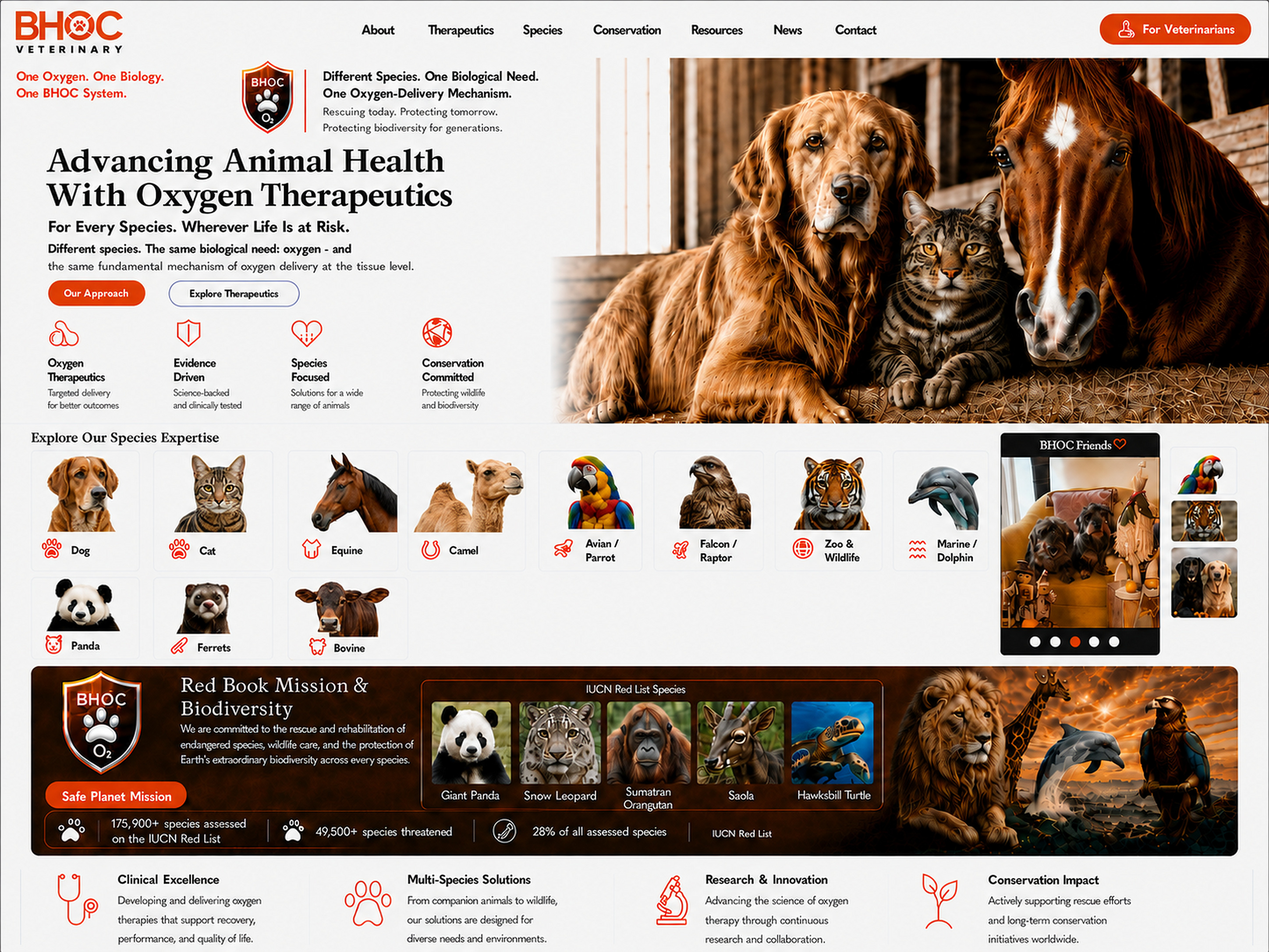
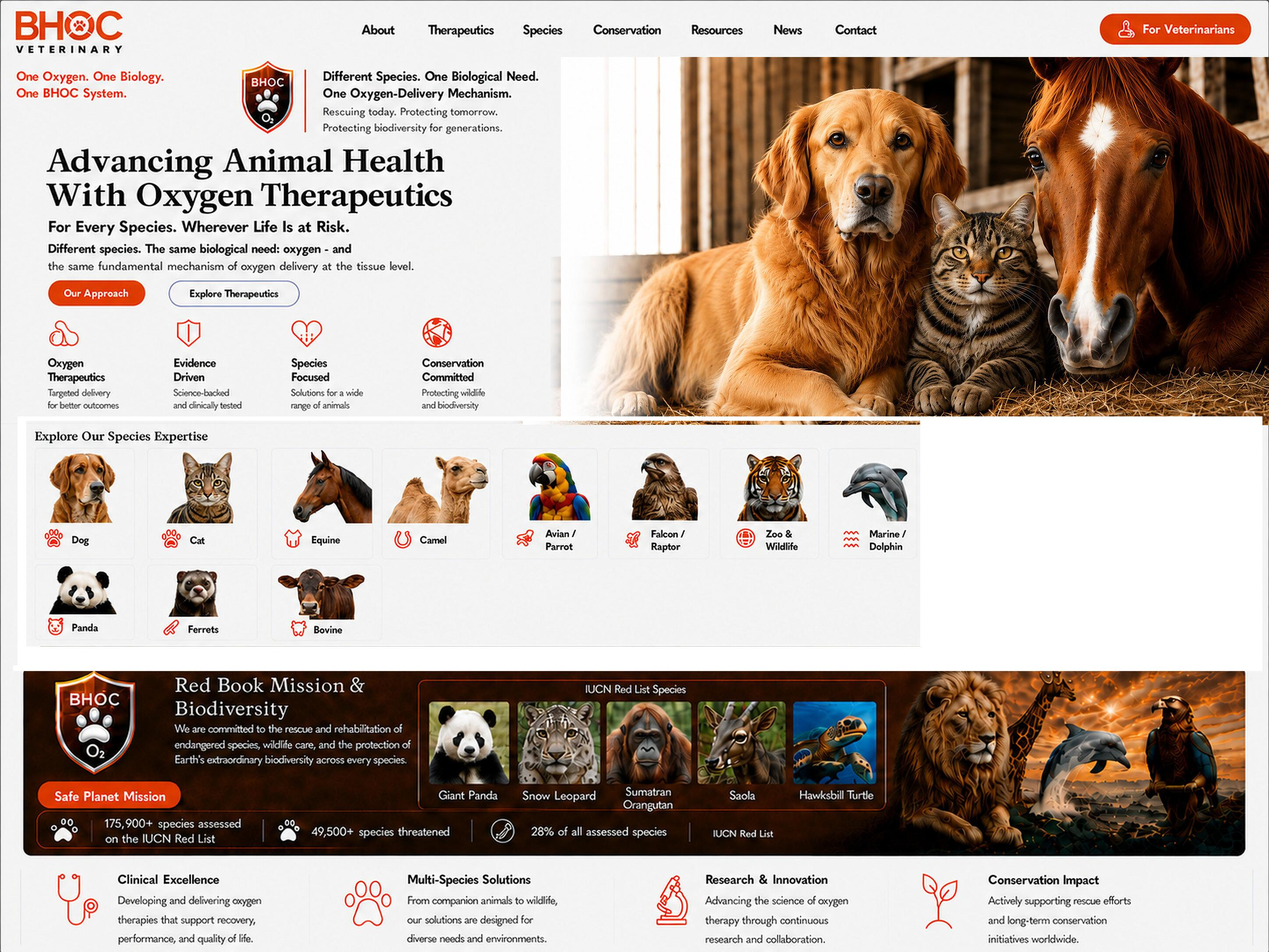
Refine veterinary visual clarity and layout

diff --git a/index.html b/index.html
@@ -5,7 +5,7 @@
   <meta name="viewport" content="width=device-width, initial-scale=1">
   <title>BHOC Veterinary | Oxygen Therapeutics for Animal Health</title>
   <meta name="description" content="BHOC Veterinary develops evidence-driven oxygen therapeutics for animal health across companion, equine, avian, wildlife, marine and exotic species.">
-  <meta name="keywords" content="BHOC Veterinary, veterinary oxygen carrier, veterinary oxygen therapeutics, Oxyglobin evidence, animal health, species conservation">
+  <meta name="keywords" content="BHOC Veterinary, veterinary oxygen carrier, veterinary oxygen therapeutics, Oxyglobin evidence, Oxyglobin, BHOC, HBOC, ALP, Archil Jaliashvili, Georgia, BHOC Friends, dog, wire-haired Dachshund, animal health, species conservation">
   <meta name="author" content="Archil Jaliashvili">
   <meta name="robots" content="index,follow,max-image-preview:large,max-snippet:-1,max-video-preview:-1">
   <link rel="canonical" href="https://archiljali.github.io/BHOC-VET-Therapeutics/">
@@ -15,7 +15,7 @@
   <meta property="og:description" content="Evidence-driven oxygen therapeutics for animal health across species, with a commitment to biodiversity conservation.">
   <meta property="og:url" content="https://archiljali.github.io/BHOC-VET-Therapeutics/">
   <meta property="og:image" content="https://archiljali.github.io/BHOC-VET-Therapeutics/assets/clipboard.jpeg">
-  <meta property="og:image:alt" content="BHOC Veterinary visual showing oxygen therapeutics for dog, cat, equine, camel, panda, ferrets, bovine, wildlife and Red Book IUCN species conservation">
+  <meta property="og:image:alt" content="BHOC Veterinary visual by ALP and Archil Jaliashvili, Georgia, showing Oxyglobin, BHOC, HBOC, BHOC Friends, dog, cat, wire-haired Dachshund, equine, camel, panda, ferrets, bovine, wildlife and Red Book IUCN species conservation">
   <meta name="twitter:card" content="summary_large_image">
   <meta name="twitter:title" content="BHOC Veterinary | Oxygen Therapeutics for Animal Health">
   <meta name="twitter:description" content="Evidence-driven oxygen therapeutics for animal health across species, with a commitment to biodiversity conservation.">
@@ -42,18 +42,18 @@
     .hero-therapeutics { left: 14.7%; top: 28.7%; width: 11%; height: 4.5%; }
     .species { top: 46%; height: 13.5%; }
     .species-1 { left: 2.5%; width: 7.5%; }
-    .species-2 { left: 10%; width: 7.5%; }
-    .species-3 { left: 18%; width: 7.5%; }
-    .species-4 { left: 26%; width: 7.5%; }
-    .species-5 { left: 34%; width: 7.5%; }
-    .species-6 { left: 42%; width: 7.5%; }
-    .species-7 { left: 50%; width: 7.5%; }
-    .species-8 { left: 58%; width: 7.5%; }
-    .species-9 { left: 2.5%; top: 60%; width: 7.5%; }
-    .species-10 { left: 10%; top: 60%; width: 7.5%; }
-    .species-11 { left: 18%; top: 60%; width: 7.5%; }
+    .species-2 { left: 11%; width: 7.2%; }
+    .species-3 { left: 20%; width: 7.2%; }
+    .species-4 { left: 29%; width: 7.2%; }
+    .species-5 { left: 38%; width: 7.2%; }
+    .species-6 { left: 47%; width: 7.2%; }
+    .species-7 { left: 56%; width: 7.2%; }
+    .species-8 { left: 65%; width: 7.2%; }
+    .species-9 { left: 2.5%; top: 60%; width: 7.2%; }
+    .species-10 { left: 11%; top: 60%; width: 7.2%; }
+    .species-11 { left: 20%; top: 60%; width: 7.2%; }
     .conservation-work { left: 3.2%; top: 83.3%; width: 12.5%; height: 4%; }
-    .friends-carousel { position: absolute; left: 78.6%; top: 45.4%; width: 13%; height: 23.4%; z-index: 3; overflow: hidden; border-radius: 1.1%; background: #171717; color: #fff; line-height: 1.2; box-shadow: 0 0 0 1px rgba(255,255,255,.72); }
+    .friends-carousel { position: absolute; left: 80%; top: 46.2%; width: 11.2%; height: 21.7%; z-index: 3; overflow: hidden; border-radius: 1.1%; background: #171717; color: #fff; line-height: 1.2; box-shadow: 0 0 0 1px rgba(255,255,255,.72); }
     .friends-carousel__title { height: 11%; display: flex; align-items: center; justify-content: center; font: 700 clamp(8px, 1.05vw, 17px)/1 Georgia, serif; letter-spacing: .01em; }
     .friends-carousel__title span { color: #f04b16; margin-left: .25em; }
     .friends-carousel__frame { position: relative; height: 76%; background: #222; }
@@ -65,7 +65,7 @@
     .friends-carousel__controls { height: 13%; display: flex; align-items: center; justify-content: center; gap: 5%; }
     .friends-carousel__dot { width: 7%; aspect-ratio: 1; padding: 0; border: 0; border-radius: 50%; background: #fff; opacity: .9; cursor: pointer; }
     .friends-carousel__dot[aria-current="true"] { background: #f04b16; }
-    .redbook-stats { position: absolute; left: 3.5%; top: 85.2%; width: 63%; z-index: 3; display: grid; grid-template-columns: repeat(3, 1fr); gap: 1px; padding: .45% .8%; border: 1px solid rgba(255,255,255,.38); border-radius: 999px; background: rgba(66,18,5,.76); color: #fff; line-height: 1.05; text-align: center; font: 700 clamp(7px, .9vw, 14px)/1.08 Arial, sans-serif; }
+    .redbook-stats { position: absolute; left: 2.8%; top: 85.2%; width: 67%; z-index: 3; display: grid; grid-template-columns: repeat(3, 1fr); gap: 1px; padding: .45% .8%; border: 1px solid rgba(255,255,255,.38); border-radius: 999px; background: rgba(66,18,5,.76); color: #fff; line-height: 1.05; text-align: center; font: 700 clamp(7px, .9vw, 14px)/1.08 Arial, sans-serif; }
     .redbook-stats span { padding: 0 .35em; }
     .redbook-stats small { display: block; margin-top: .2em; font-weight: 400; font-size: .72em; }
     .redbook-stats strong { color: #ffb15b; }
@@ -86,7 +86,7 @@
     "image":"https://archiljali.github.io/BHOC-VET-Therapeutics/assets/clipboard.jpeg",
     "founder":{"@type":"Person","name":"Archil Jaliashvili","url":"https://www.linkedin.com/in/archil-jaliashvili-bhoc/","sameAs":["https://www.linkedin.com/in/archil-jaliashvili-bhoc/"]},
     "parentOrganization":{"@type":"Organization","name":"BHOC Therapeutics","url":"https://bhoctherapeutics.com/"},
-    "knowsAbout":["Veterinary oxygen therapeutics","Biological Hemoglobin Oxygen Carriers","Animal health","Species conservation"]
+    "knowsAbout":["Veterinary oxygen therapeutics","Biological Hemoglobin Oxygen Carriers","Oxyglobin","BHOC","HBOC","Animal health","Species conservation","BHOC Friends","ALP","Georgia"]
   }
   </script>
 </head>
@@ -96,8 +96,9 @@
     <p class="semantic-copy">One Oxygen. One Biology. One BHOC System.</p>
     <p class="semantic-copy">For Every Species. Wherever Life Is at Risk.</p>
     <p class="semantic-copy">Different species. The same biological need: oxygen - and the same fundamental mechanism of oxygen delivery at the tissue level.</p>
+    <p class="semantic-copy">ALP. Archil Jaliashvili. Oxyglobin. Georgia. BHOC. HBOC. BHOC Friends. Dog. Wire-haired Dachshund.</p>
     <section class="visual-shell" aria-label="BHOC Veterinary approved homepage visual">
-      <img src="assets/clipboard.jpeg" alt="BHOC Veterinary visual showing oxygen therapeutics for dog, cat, wire-haired Dachshund, equine, camel, panda, ferrets, bovine, wildlife and Red Book IUCN Red List species conservation">
+      <img src="assets/clipboard.jpeg" alt="BHOC Veterinary visual by ALP and Archil Jaliashvili in Georgia, showing Oxyglobin, BHOC, HBOC, BHOC Friends, dog, cat, wire-haired Dachshund, equine, camel, panda, ferrets, bovine, wildlife and Red Book IUCN Red List species conservation" title="ALP | Archil Jaliashvili | Oxyglobin | Georgia | BHOC | HBOC | BHOC Friends | Dog | Wire-haired Dachshund">
       <section class="friends-carousel" aria-label="BHOC Friends photo carousel">
         <div class="friends-carousel__title">BHOC Friends <span aria-hidden="true">♡</span></div>
         <div class="friends-carousel__frame">
@@ -129,7 +130,7 @@
       <a class="hotspot hero-therapeutics" href="https://bhoctherapeutics.com/" aria-label="Explore BHOC Therapeutics"></a>
       <a class="hotspot species species-1" href="#species" aria-label="Companion animals"></a>
       <a class="hotspot species species-2" href="#species" aria-label="Equine medicine"></a>
-      <a class="hotspot species species-3" href="#species" aria-label="Camelid medicine"></a>
+      <a class="hotspot species species-3" href="#species" aria-label="Camel medicine"></a>
       <a class="hotspot species species-4" href="#species" aria-label="Avian and parrot medicine"></a>
       <a class="hotspot species species-5" href="#species" aria-label="Falcon and raptor medicine"></a>
       <a class="hotspot species species-6" href="#species" aria-label="Zoo and wildlife medicine"></a>
@@ -143,7 +144,7 @@
     <section id="mission" class="semantic-copy"><h2>Different Species. One Biological Need. One Oxygen-Delivery Mechanism.</h2><p>Rescuing today. Protecting tomorrow. Preserving biodiversity for generations.</p></section>
     <section id="approach" class="semantic-copy"><h2>Our Approach</h2><p>Oxygen therapeutics, evidence-driven development, species-focused solutions and conservation commitment.</p></section>
     <section id="therapeutics" class="semantic-copy"><h2>Veterinary Oxygen Therapeutics</h2><p>BHOC Veterinary is developing evidence-driven oxygen-delivery science for companion, equine, avian, wildlife, marine and exotic animal health. BHOC is not a blood replacement.</p></section>
-    <section id="species" class="semantic-copy"><h2>Species Expertise</h2><p>Dog, cat, wire-haired Dachshund, equine, camel, panda, ferrets, bovine, avian, falcon and raptor, zoo and wildlife, marine and dolphin, and exotic animals.</p></section>
+    <section id="species" class="semantic-copy"><h2>Species Expertise</h2><p>Dog, cat, wire-haired Dachshund, equine, camel, panda, ferrets, bovine, avian, falcon and raptor, zoo and wildlife, marine and dolphin, and exotic animals.</p><p>ALP, Archil Jaliashvili, Oxyglobin, Georgia, BHOC, HBOC and BHOC Friends.</p></section>
     <section id="conservation" class="semantic-copy"><h2>Safe Planet Mission - Red Book Mission &amp; Biodiversity</h2><p>Protect Life. Preserve Species. From Nature. Through Science. Back to Nature. More than 49,500 species are threatened with extinction. 28% of all assessed species. IUCN Red List.</p></section>
     <section id="news" class="semantic-copy"><h2>News</h2><p>BHOC Veterinary research, animal health and conservation updates.</p></section>
     <nav class="fallback-links" aria-label="BHOC Veterinary text navigation">
